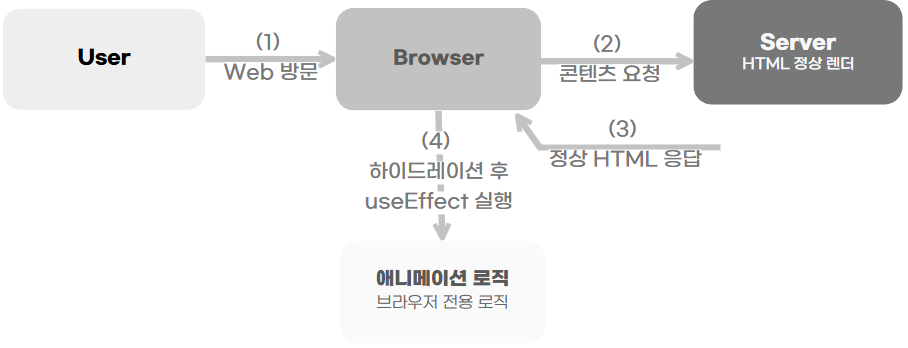
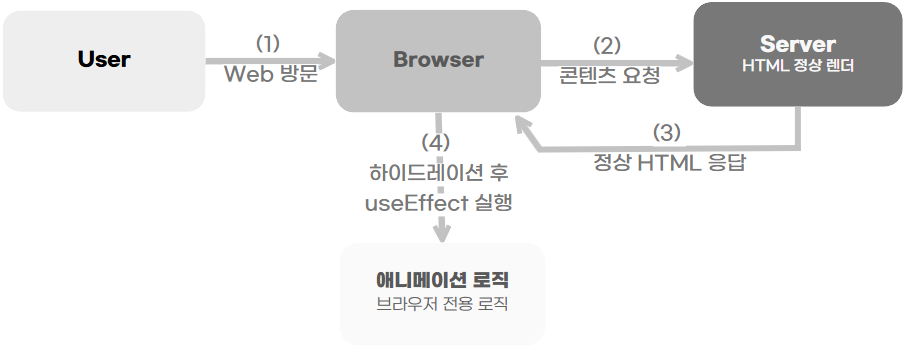
Feat: Project 데이터 추가

diff --git a/src/data/projects/jaksimharu.ts b/src/data/projects/jaksimharu.ts
@@ -9,15 +9,43 @@ export const jaksimharu: Project = {
     period: '2024년 8월 26일 - 2024년 9월 24일',
     summary: '우리동네 스터디원 구하기 플랫폼',
     techStack: ['React', 'TailwindCSS','React-Router-Dom', 'Zustand', 'Pocketbase', 'Vite', 'React-Helmet', 'Netlify','GSAP' ],
-    features: [
-        'a','b'
-    ],
     github: 'https://github.com/FRONTENDSCHOOL10/seven-11',
     deployLink:'https://jaksim-haru.netlify.app/',
     slides: [
-        // 1. 사용 기술
         {
             id: 'slide-01',
+            title: '서비스 소개',
+            blocks: [
+                {
+                    type: 'image',
+                    src: 'src/assets/Project/jacksimharu.png'
+                },
+                {
+          type: 'H2',
+          text: '기획의도'
+        },
+        {
+          type: 'paragraphBox',
+          icon: '📚',
+          paragraph:{
+            paragraph: '"작심하루"는 내가 원하는 지역에서 빠르게 스터디원을 구하는 모바일 전용 플랫폼입니다. 빠르고 쉽게 스터디를 만들거나 가입할 수 있도록 하기 위하여 기획되었습니다. 사용자 위치 근처 지도를 확인할 수 있도록 kakao map api를 통한 지도를 구현하고 스터디원 간의 빠른 피드백을 위하여 WebSocket 프로토콜을 기반으로 하는 pocketbase의 subscribe 기능을 활용하여 단체 채팅을 구현하는 것을 목표로 기획하였습니다.'
+          }
+        },
+        {
+          type: 'H2',
+          text: '주요 기능'
+        },
+        {
+          type: 'paragraphBox',
+          paragraph: {
+            paragraph: '• 우리 동네 스터디원 모집 게시판\n• 스터디원끼리의 그룹 채팅\n• 우리 동네 스터디 할 곳 찾기(지도)'
+          }
+        },
+            ]
+        },
+        // 2. 사용 기술
+        {
+            id: 'slide-02',
             title: '사용 기술',
             blocks: [
                 { 
@@ -72,9 +100,9 @@ export const jaksimharu: Project = {
                 }
             ]
         },
-        // 2. 아키텍쳐
+        // 3. 아키텍쳐
         {
-            id: 'slide-02',
+            id: 'slide-03',
                 title: '아키텍쳐 & ERD',
                 blocks: [
                     {
@@ -89,9 +117,9 @@ export const jaksimharu: Project = {
                     },
                 ]
         },
-        // 3. 수행업무 및 기여
+        // 4. 수행업무 및 기여
         {
-                id: 'slide-03',
+                id: 'slide-04',
                 title: '수행 업무 및 기여',
                 blocks: [
                     {
@@ -174,9 +202,9 @@ export const jaksimharu: Project = {
                 ]
                 
             },
-            // 4 - 트러블 슈팅
+            // 5 - 트러블 슈팅
             {
-                id: 'slide-04',
+                id: 'slide-05',
                 title: '트러블 슈팅',
                 blocks: [
                     {
@@ -258,9 +286,9 @@ export const jaksimharu: Project = {
                     }
                         ]
                     },
-                    // 5 - 사용자 경험을 위해 한 노력
+                    // 6 - 사용자 경험을 위해 한 노력
                     {
-                id: 'slide-05',
+                id: 'slide-06',
                 title: '사용자 경험을 위해 한 노력',
                 blocks: [
                     {
@@ -293,9 +321,9 @@ export const jaksimharu: Project = {
                     }
                         ]
                     },
-                    // 6 - 회고 및 프로젝트 성과
+                    // 7 - 회고 및 프로젝트 성과
                     {
-                        id: 'slide-06',
+                        id: 'slide-07',
                         title: '회고 및 프로젝트 성과',
                         blocks: [
                             {

diff --git a/src/data/projects/fitculator.ts b/src/data/projects/fitculator.ts
@@ -9,15 +9,45 @@ export const fitculator: Project = {
     period: '2025년 1월 31일 - 2025년 2월 28일',
     summary: '헬스케어 앱 서비스 Fitculator의 B2C 웹 페이지',
     techStack: ['Next.js', 'TailwindCSS','TypeScript', 'Zustand', 'Supabase', 'Motion one', 'Vercel' ],
-    features: [
-
-    ],
     github: 'https://github.com/YSP97/Team1_FE_B2C',
     deployLink:'https://team1-fe-b2-c.vercel.app/',
     slides: [
-        // 1. 사용 기술
         {
             id: 'slide-01',
+            title: '서비스 소개',
+            blocks: [
+                {
+                    type: 'image',
+                    src: 'src/assets/Project/fitculator.png'
+                },
+                {
+                    type: 'H2',
+                    text: '기획의도'
+                },
+                {
+                    type: 'paragraphBox',
+                    icon: '🏋',
+                    paragraph: {
+                        paragraph: '헬스 케어 앱 서비스 Fitculator 의 B2C 웹 페이지입니다. Fitculator 는 그룹 피트니스를 이용하고자 하는 사용자에게 운동량을 계산해주고 올바른 운동 방향을 제시하기 위한 서비스로 해당 웹페이지는 어플리케이션 다운로드를 유도하기 위한 서비스 소개와 유료 서비스 가입을 위하여 기획되었습니다.'
+                    }
+
+                },
+                {
+                    type: 'H2',
+                    text: '주요기능'
+                },
+                {
+                    type: 'paragraphBox',
+                    paragraph: {
+                        paragraph: '• Fitculator 서비스 소개\n • 서비스 유료 회원 가입\n • 서비스 소개 애니메이션 효과'
+                    }
+
+                },
+            ]
+        },
+        // 2. 사용 기술
+        {
+            id: 'slide-02',
             title: '사용 기술',
             blocks: [
                 { 
@@ -62,9 +92,9 @@ export const fitculator: Project = {
                 }
             ]
         },
-        // 2. 아키텍쳐
+        // 3. 아키텍쳐
         {
-            id: 'slide-02',
+            id: 'slide-03',
                 title: '아키텍쳐',
                 blocks: [
                     {
@@ -74,9 +104,9 @@ export const fitculator: Project = {
                     },
                 ]
         },
-        // 3. 수행업무 및 기여
+        // 4. 수행업무 및 기여
         {
-                id: 'slide-03',
+                id: 'slide-04',
                 title: '수행 업무 및 기여',
                 blocks: [
                     {
@@ -115,9 +145,9 @@ export const fitculator: Project = {
                 ]
                 
             },
-            // 4 - 트러블 슈팅
+            // 5 - 트러블 슈팅
             {
-                id: 'slide-04',
+                id: 'slide-05',
                 title: '트러블 슈팅',
                 blocks: [
                     {
@@ -168,8 +198,9 @@ export const fitculator: Project = {
 
                         ]
                     },
+                    // 6 - 회고 및 프로젝트 성과
                     {
-                        id: 'slide-05',
+                        id: 'slide-06',
                         title: '회고 및 프로젝트 성과',
                         blocks: [
                             {

diff --git a/src/data/projects/erpSystem.ts b/src/data/projects/erpSystem.ts
@@ -18,29 +18,15 @@ export const erpSystem: Project = {
     'Python',
   ],
   summary: 'Jira 티켓 관리와 온보딩을 위한 ERP 시스템',
-  features: [
-    {
-      title: '티켓 관리 대시보드',
-      items: [
-        '• 권한별 맞춤형 업무 뷰(관리자/팀원)',
-        '• 인터랙티브 데이터 핸들링',
-        '• 인원별 티켓 배정 및 상태 확인',
-      ],
-    },
-    {
-      title: '온보딩 가이드 시스템',
-      items: [
-        '• 업무 프로세스 & 매뉴얼 중앙 집중화',
-        '• 구조화된 데이터로 손쉬운 업데이트',
-        '• 인터랙티브 UI로 직관적 가이드 탐색',
-      ],
-    },
-  ],
   slides: [
     {
       id: 'slide-01',
-      title: '기획의도 및 주요기능',
+      title: '서비스 소개',
       blocks: [
+        {
+                    type: 'image',
+                    src: 'src/assets/Project/erpSystem.png'
+                },
         {
           type: 'H2',
           text: '기획의도'
@@ -87,7 +73,14 @@ export const erpSystem: Project = {
           type: 'paragraphBox',
           paragraph: {
             title: '티켓 관리 대시보드',
-            paragraph: ''
+            paragraph: '• 권한별 맞춤형 업무 뷰(관리자/팀원)\n• 인터랙티브 데이터 핸들링\n• 인원별 티켓 배정 및 상태 확인'
+          }
+        },
+        {
+          type: 'paragraphBox',
+          paragraph: {
+            title: '온보딩 가이드 시스템',
+            paragraph: '• 업무 프로세스 & 매뉴얼 중앙 집중화\n• 구조화된 데이터로 손쉬운 업데이트\n• 인터랙티브 UI로 직관적 가이드 탐색'
           }
         }
       ]
@@ -182,7 +175,7 @@ export const erpSystem: Project = {
           type: 'paragraphBox',
           icon: '📝',
           paragraph: {
-            title: '모달 기반 CRUD + 수정 `모드 전환',
+            title: '모달 기반 CRUD + 수정 모드 전환',
             paragraph:
               '테이블 셀을 클릭하면 바로 입력 가능한 인라인 에디터로 전환. 수정·추가·삭제를 한 화면에서 처리',
           },
@@ -250,6 +243,7 @@ export const erpSystem: Project = {
         },
         {
           type: 'flowChart',
+          title: '엑셀 업로드 및 데이터 자동화 파이프라인',
           items: [
             {
               label: '사용자',

diff --git a/src/types/project.ts b/src/types/project.ts
@@ -6,7 +6,6 @@ export interface Project {
   period: string;
   role: string;
   teamSize: string;
-  features: (string | Features)[];
   summary: string;
   thumbnail?: string;
   techStack: string[];
